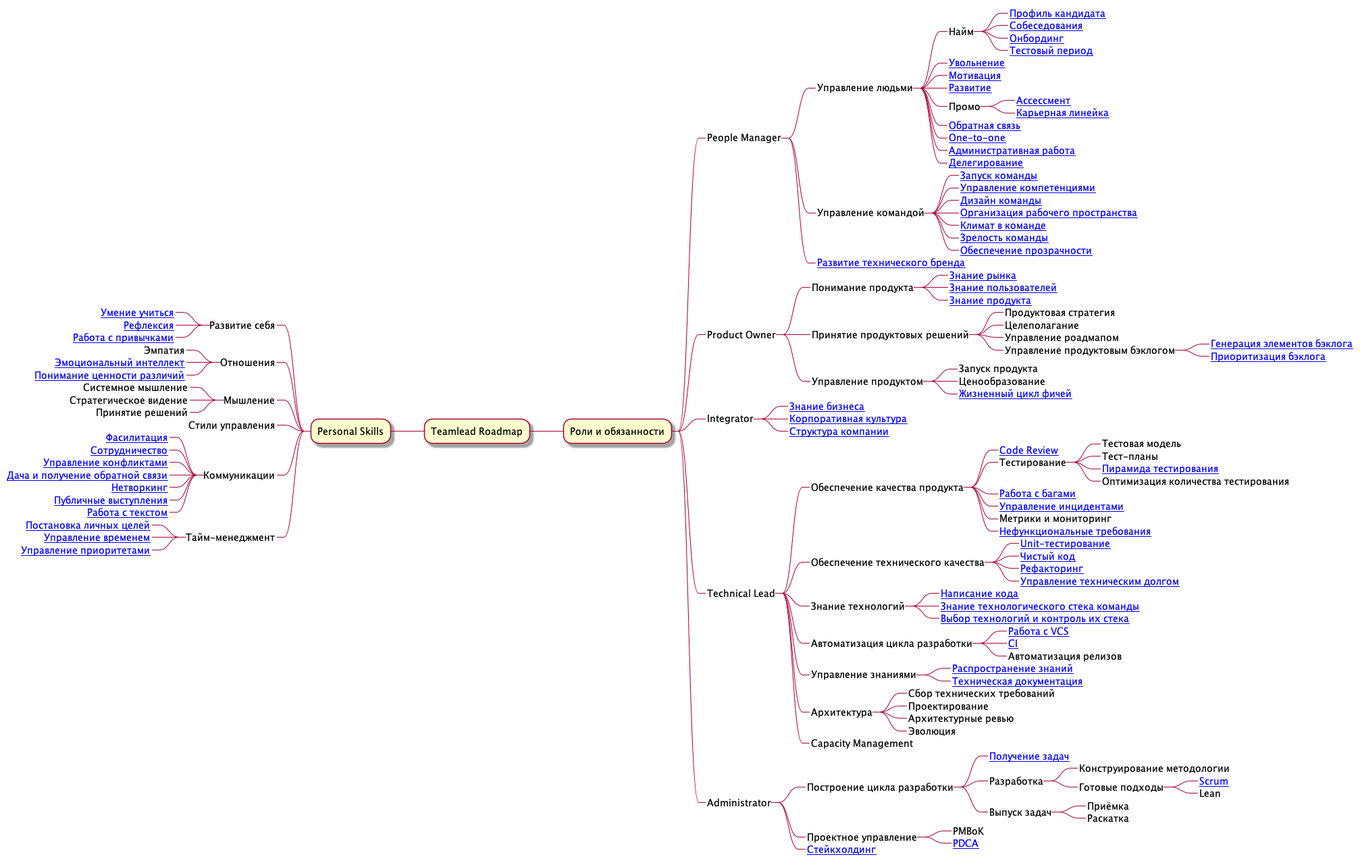
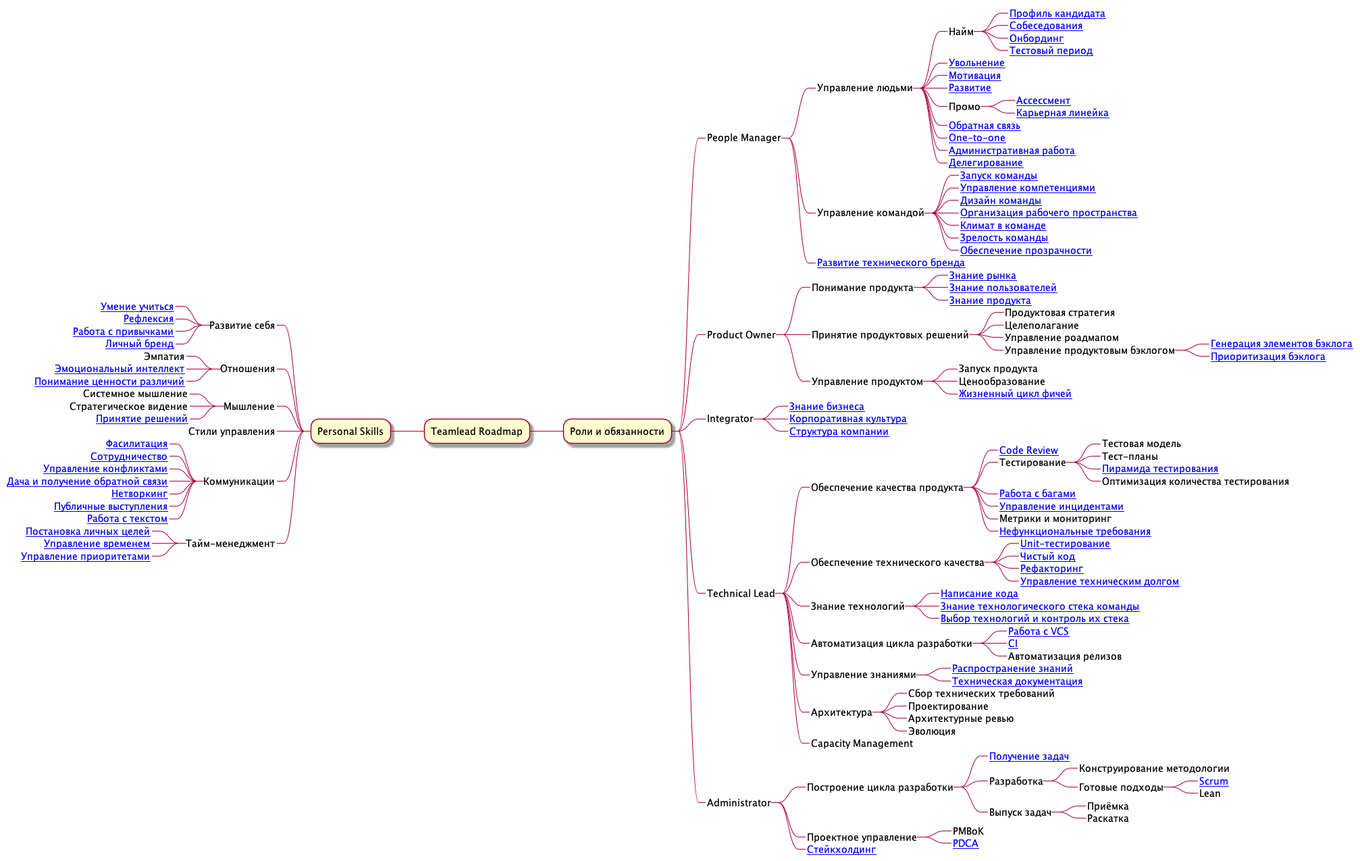
Updated knowledge base

Changed region(s): [[0.0, 0.3365, 0.2155, 0.6729]]

diff --git a/roadmap.mm b/roadmap.mm
@@ -1,1 +1,1 @@
-<map version="1.0.1"><node STYLE="bubble" TEXT="Teamlead Roadmap"><node POSITION="left" STYLE="fork" TEXT="Развитие себя"><node LINK="https://github.com/tlbootcamp/tlroadmap/blob/master/skills/self-improvement/learning.md" STYLE="fork" TEXT="Умение учиться" /><node LINK="https://github.com/tlbootcamp/tlroadmap/blob/master/skills/self-improvement/reflection.md" STYLE="fork" TEXT="Рефлексия" /><node LINK="https://github.com/tlbootcamp/tlroadmap/blob/master/skills/self-improvement/habits.md" STYLE="fork" TEXT="Работа с привычками" /></node><node POSITION="left" STYLE="fork" TEXT="Отношения"><node STYLE="fork" TEXT="Эмпатия" /><node LINK="https://github.com/tlbootcamp/tlroadmap/blob/master/skills/self-improvement/emotional-intelligence.md" STYLE="fork" TEXT="Эмоциональный интеллект" /><node LINK="https://github.com/tlbootcamp/tlroadmap/blob/master/skills/self-improvement/diversity.md" STYLE="fork" TEXT="Понимание ценности различий" /></node><node POSITION="left" STYLE="fork" TEXT="Мышление"><node STYLE="fork" TEXT="Системное мышление" /><node STYLE="fork" TEXT="Стратегическое видение" /><node STYLE="fork" TEXT="Принятие решений" /></node><node POSITION="left" STYLE="fork" TEXT="Стили управления" /><node POSITION="left" STYLE="fork" TEXT="Коммуникации"><node LINK="https://github.com/tlbootcamp/tlroadmap/blob/master/skills/self-improvement/facilitation.md" STYLE="fork" TEXT="Фасилитация" /><node LINK="https://github.com/tlbootcamp/tlroadmap/blob/master/skills/self-improvement/cooperation.md" STYLE="fork" TEXT="Сотрудничество" /><node LINK="https://github.com/tlbootcamp/tlroadmap/blob/master/skills/self-improvement/conflicts.md" STYLE="fork" TEXT="Управление конфликтами" /><node LINK="https://github.com/tlbootcamp/tlroadmap/blob/master/skills/self-improvement/feedback.md" STYLE="fork" TEXT="Дача и получение обратной связи" /><node LINK="https://github.com/tlbootcamp/tlroadmap/blob/master/skills/self-improvement/networking.md" STYLE="fork" TEXT="Нетворкинг" /><node LINK="https://github.com/tlbootcamp/tlroadmap/blob/master/skills/self-improvement/public-speaking.md" STYLE="fork" TEXT="Публичные выступления" /><node LINK="https://github.com/tlbootcamp/tlroadmap/blob/master/skills/self-improvement/text.md" STYLE="fork" TEXT="Работа с текстом" /></node><node POSITION="left" STYLE="fork" TEXT="Тайм-менеджмент"><node LINK="https://github.com/tlbootcamp/tlroadmap/blob/master/skills/self-improvement/goal-setting.md" STYLE="fork" TEXT="Постановка личных целей" /><node LINK="https://github.com/tlbootcamp/tlroadmap/blob/master/skills/self-improvement/time-management.md" STYLE="fork" TEXT="Управление временем" /><node LINK="https://github.com/tlbootcamp/tlroadmap/blob/master/skills/self-improvement/prioritization.md" STYLE="fork" TEXT="Управление приоритетами" /></node><node POSITION="right" STYLE="fork" TEXT="People Manager"><node STYLE="fork" TEXT="Управление людьми"><node STYLE="fork" TEXT="Найм"><node LINK="https://github.com/tlbootcamp/tlroadmap/blob/master/skills/resource-manager/profile.md" STYLE="fork" TEXT="Профиль кандидата" /><node LINK="https://github.com/tlbootcamp/tlroadmap/blob/master/skills/resource-manager/interview.md" STYLE="fork" TEXT="Собеседования" /><node LINK="https://github.com/tlbootcamp/tlroadmap/blob/master/skills/resource-manager/onboarding.md" STYLE="fork" TEXT="Онбординг" /><node LINK="https://github.com/tlbootcamp/tlroadmap/blob/master/skills/resource-manager/test-period.md" STYLE="fork" TEXT="Тестовый период" /></node><node LINK="https://github.com/tlbootcamp/tlroadmap/blob/master/skills/resource-manager/firing.md" STYLE="fork" TEXT="Увольнение" /><node LINK="https://github.com/tlbootcamp/tlroadmap/blob/master/skills/resource-manager/motivation.md" STYLE="fork" TEXT="Мотивация" /><node LINK="https://github.com/tlbootcamp/tlroadmap/blob/master/skills/resource-manager/development.md" STYLE="fork" TEXT="Развитие" /><node STYLE="fork" TEXT="Промо"><node LINK="https://github.com/tlbootcamp/tlroadmap/blob/master/skills/resource-manager/assessment.md" STYLE="fork" TEXT="Ассессмент" /><node LINK="https://github.com/tlbootcamp/tlroadmap/blob/master/skills/resource-manager/career.md" STYLE="fork" TEXT="Карьерная линейка" /></node><node LINK="https://github.com/tlbootcamp/tlroadmap/blob/master/skills/resource-manager/feedback.md" STYLE="fork" TEXT="Обратная связь" /><node LINK="https://github.com/tlbootcamp/tlroadmap/blob/master/skills/resource-manager/one-to-one.md" STYLE="fork" TEXT="One-to-one" /><node LINK="https://github.com/tlbootcamp/tlroadmap/blob/master/skills/resource-manager/admin.md" STYLE="fork" TEXT="Административная работа" /><node LINK="https://github.com/tlbootcamp/tlroadmap/blob/master/skills/resource-manager/delegation.md" STYLE="fork" TEXT="Делегирование" /></node><node STYLE="fork" TEXT="Управление командой"><node LINK="https://github.com/tlbootcamp/tlroadmap/blob/master/skills/resource-manager/team-launch.md" STYLE="fork" TEXT="Запуск команды" /><node LINK="https://github.com/tlbootcamp/tlroadmap/blob/master/skills/resource-manager/competency-management.md" STYLE="fork" TEXT="Управление компетенциями" /><node LINK="https://github.com/tlbootcamp/tlroadmap/blob/master/skills/resource-manager/team-design.md" STYLE="fork" TEXT="Дизайн команды" /><node LINK="https://github.com/tlbootcamp/tlroadmap/blob/master/skills/resource-manager/workspace.md" STYLE="fork" TEXT="Организация рабочего пространства" /><node LINK="https://github.com/tlbootcamp/tlroadmap/blob/master/skills/resource-manager/team-climate.md" STYLE="fork" TEXT="Климат в команде" /><node LINK="https://github.com/tlbootcamp/tlroadmap/blob/master/skills/resource-manager/team-maturity.md" STYLE="fork" TEXT="Зрелость команды" /><node LINK="https://github.com/tlbootcamp/tlroadmap/blob/master/skills/resource-manager/transparency.md" STYLE="fork" TEXT="Обеспечение прозрачности" /></node><node LINK="https://github.com/tlbootcamp/tlroadmap/blob/master/skills/resource-manager/techpr.md" STYLE="fork" TEXT="Развитие технического бренда" /></node><node POSITION="right" STYLE="fork" TEXT="Product Owner"><node STYLE="fork" TEXT="Понимание продукта"><node LINK="https://github.com/tlbootcamp/tlroadmap/blob/master/skills/product-owner/market-knowledge.md" STYLE="fork" TEXT="Знание рынка" /><node LINK="https://github.com/tlbootcamp/tlroadmap/blob/master/skills/product-owner/user-knowledge.md" STYLE="fork" TEXT="Знание пользователей" /><node LINK="https://github.com/tlbootcamp/tlroadmap/blob/master/skills/product-owner/product-knowledge.md" STYLE="fork" TEXT="Знание продукта" /></node><node STYLE="fork" TEXT="Принятие продуктовых решений"><node STYLE="fork" TEXT="Продуктовая стратегия" /><node STYLE="fork" TEXT="Целеполагание" /><node STYLE="fork" TEXT="Управление роадмапом" /><node STYLE="fork" TEXT="Управление продуктовым бэклогом"><node LINK="https://github.com/tlbootcamp/tlroadmap/blob/master/skills/product-owner/backlog-generation.md" STYLE="fork" TEXT="Генерация элементов бэклога" /><node LINK="https://github.com/tlbootcamp/tlroadmap/blob/master/skills/product-owner/backlog-prioritization.md" STYLE="fork" TEXT="Приоритизация бэклога" /></node></node><node STYLE="fork" TEXT="Управление продуктом"><node STYLE="fork" TEXT="Запуск продукта" /><node STYLE="fork" TEXT="Ценообразование" /><node LINK="https://github.com/tlbootcamp/tlroadmap/blob/master/skills/product-owner/feature-lifecycle.md" STYLE="fork" TEXT="Жизненный цикл фичей" /></node></node><node POSITION="right" STYLE="fork" TEXT="Integrator"><node LINK="https://github.com/tlbootcamp/tlroadmap/blob/master/skills/integrator/business-knowledge.md" STYLE="fork" TEXT="Знание бизнеса" /><node LINK="https://github.com/tlbootcamp/tlroadmap/blob/master/skills/integrator/corporate-culture.md" STYLE="fork" TEXT="Корпоративная культура" /><node LINK="https://github.com/tlbootcamp/tlroadmap/blob/master/skills/integrator/company-structure.md" STYLE="fork" TEXT="Структура компании" /></node><node POSITION="right" STYLE="fork" TEXT="Technical Lead"><node STYLE="fork" TEXT="Обеспечение качества продукта"><node LINK="https://github.com/tlbootcamp/tlroadmap/blob/master/skills/technical-lead/code-review.md" STYLE="fork" TEXT="Code Review" /><node STYLE="fork" TEXT="Тестирование"><node STYLE="fork" TEXT="Тестовая модель" /><node STYLE="fork" TEXT="Тест-планы" /><node LINK="https://github.com/tlbootcamp/tlroadmap/blob/master/skills/technical-lead/test-pyramid.md" STYLE="fork" TEXT="Пирамида тестирования" /><node STYLE="fork" TEXT="Оптимизация количества тестирования" /></node><node LINK="https://github.com/tlbootcamp/tlroadmap/blob/master/skills/technical-lead/bugs.md" STYLE="fork" TEXT="Работа с багами" /><node LINK="https://github.com/tlbootcamp/tlroadmap/blob/master/skills/technical-lead/incident-management.md" STYLE="fork" TEXT="Управление инцидентами" /><node STYLE="fork" TEXT="Метрики и мониторинг" /><node LINK="https://github.com/tlbootcamp/tlroadmap/blob/master/skills/technical-lead/nfr.md" STYLE="fork" TEXT="Нефункциональные требования" /></node><node STYLE="fork" TEXT="Обеспечение технического качества"><node LINK="https://github.com/tlbootcamp/tlroadmap/blob/master/skills/technical-lead/unit-testing.md" STYLE="fork" TEXT="Unit-тестирование" /><node LINK="https://github.com/tlbootcamp/tlroadmap/blob/master/skills/technical-lead/clean-code.md" STYLE="fork" TEXT="Чистый код" /><node LINK="https://github.com/tlbootcamp/tlroadmap/blob/master/skills/technical-lead/refactoring.md" STYLE="fork" TEXT="Рефакторинг" /><node LINK="https://github.com/tlbootcamp/tlroadmap/blob/master/skills/technical-lead/technical-debt.md" STYLE="fork" TEXT="Управление техническим долгом" /></node><node STYLE="fork" TEXT="Знание технологий"><node LINK="https://github.com/tlbootcamp/tlroadmap/blob/master/skills/technical-lead/code.md" STYLE="fork" TEXT="Написание кода" /><node LINK="https://github.com/tlbootcamp/tlroadmap/blob/master/skills/technical-lead/stack-knowledge.md" STYLE="fork" TEXT="Знание технологического стека команды" /><node LINK="https://github.com/tlbootcamp/tlroadmap/blob/master/skills/technical-lead/stack-choice.md" STYLE="fork" TEXT="Выбор технологий и контроль их стека" /></node><node STYLE="fork" TEXT="Автоматизация цикла разработки"><node LINK="https://github.com/tlbootcamp/tlroadmap/blob/master/skills/technical-lead/vcs.md" STYLE="fork" TEXT="Работа с VCS" /><node LINK="https://github.com/tlbootcamp/tlroadmap/blob/master/skills/technical-lead/ci.md" STYLE="fork" TEXT="CI" /><node STYLE="fork" TEXT="Автоматизация релизов" /></node><node STYLE="fork" TEXT="Управление знаниями"><node LINK="https://github.com/tlbootcamp/tlroadmap/blob/master/skills/technical-lead/knowledge-management.md" STYLE="fork" TEXT="Распространение знаний" /><node LINK="https://github.com/tlbootcamp/tlroadmap/blob/master/skills/technical-lead/documentation.md" STYLE="fork" TEXT="Техническая документация" /></node><node STYLE="fork" TEXT="Архитектура"><node STYLE="fork" TEXT="Сбор технических требований" /><node STYLE="fork" TEXT="Проектирование" /><node STYLE="fork" TEXT="Архитектурные ревью" /><node STYLE="fork" TEXT="Эволюция" /></node><node STYLE="fork" TEXT="Capacity Management" /></node><node POSITION="right" STYLE="fork" TEXT="Administrator"><node STYLE="fork" TEXT="Построение цикла разработки"><node LINK="https://github.com/tlbootcamp/tlroadmap/blob/master/skills/administrator/task-inbox.md" STYLE="fork" TEXT="Получение задач" /><node STYLE="fork" TEXT="Разработка"><node STYLE="fork" TEXT="Конструирование методологии" /><node STYLE="fork" TEXT="Готовые подходы"><node LINK="https://github.com/tlbootcamp/tlroadmap/blob/master/skills/administrator/scrum.md" STYLE="fork" TEXT="Scrum" /><node STYLE="fork" TEXT="Lean" /></node></node><node STYLE="fork" TEXT="Выпуск задач"><node STYLE="fork" TEXT="Приёмка" /><node STYLE="fork" TEXT="Раскатка" /></node></node><node STYLE="fork" TEXT="Проектное управление"><node STYLE="fork" TEXT="PMBoK" /><node LINK="https://github.com/tlbootcamp/tlroadmap/blob/master/skills/administrator/pdca.md" STYLE="fork" TEXT="PDCA" /></node><node LINK="https://github.com/tlbootcamp/tlroadmap/blob/master/skills/administrator/stakeholding.md" STYLE="fork" TEXT="Стейкхолдинг" /></node></node></map>
+<map version="1.0.1"><node STYLE="bubble" TEXT="Teamlead Roadmap"><node POSITION="left" STYLE="fork" TEXT="Развитие себя"><node LINK="https://github.com/tlbootcamp/tlroadmap/blob/master/skills/self-improvement/learning.md" STYLE="fork" TEXT="Умение учиться" /><node LINK="https://github.com/tlbootcamp/tlroadmap/blob/master/skills/self-improvement/reflection.md" STYLE="fork" TEXT="Рефлексия" /><node LINK="https://github.com/tlbootcamp/tlroadmap/blob/master/skills/self-improvement/habits.md" STYLE="fork" TEXT="Работа с привычками" /><node LINK="https://github.com/tlbootcamp/tlroadmap/blob/master/skills/self-improvement/personal-brand.md" STYLE="fork" TEXT="Личный бренд" /></node><node POSITION="left" STYLE="fork" TEXT="Отношения"><node STYLE="fork" TEXT="Эмпатия" /><node LINK="https://github.com/tlbootcamp/tlroadmap/blob/master/skills/self-improvement/emotional-intelligence.md" STYLE="fork" TEXT="Эмоциональный интеллект" /><node LINK="https://github.com/tlbootcamp/tlroadmap/blob/master/skills/self-improvement/diversity.md" STYLE="fork" TEXT="Понимание ценности различий" /></node><node POSITION="left" STYLE="fork" TEXT="Мышление"><node STYLE="fork" TEXT="Системное мышление" /><node STYLE="fork" TEXT="Стратегическое видение" /><node LINK="https://github.com/tlbootcamp/tlroadmap/blob/master/skills/self-improvement/decision-making.md" STYLE="fork" TEXT="Принятие решений" /></node><node POSITION="left" STYLE="fork" TEXT="Стили управления" /><node POSITION="left" STYLE="fork" TEXT="Коммуникации"><node LINK="https://github.com/tlbootcamp/tlroadmap/blob/master/skills/self-improvement/facilitation.md" STYLE="fork" TEXT="Фасилитация" /><node LINK="https://github.com/tlbootcamp/tlroadmap/blob/master/skills/self-improvement/cooperation.md" STYLE="fork" TEXT="Сотрудничество" /><node LINK="https://github.com/tlbootcamp/tlroadmap/blob/master/skills/self-improvement/conflicts.md" STYLE="fork" TEXT="Управление конфликтами" /><node LINK="https://github.com/tlbootcamp/tlroadmap/blob/master/skills/self-improvement/feedback.md" STYLE="fork" TEXT="Дача и получение обратной связи" /><node LINK="https://github.com/tlbootcamp/tlroadmap/blob/master/skills/self-improvement/networking.md" STYLE="fork" TEXT="Нетворкинг" /><node LINK="https://github.com/tlbootcamp/tlroadmap/blob/master/skills/self-improvement/public-speaking.md" STYLE="fork" TEXT="Публичные выступления" /><node LINK="https://github.com/tlbootcamp/tlroadmap/blob/master/skills/self-improvement/text.md" STYLE="fork" TEXT="Работа с текстом" /></node><node POSITION="left" STYLE="fork" TEXT="Тайм-менеджмент"><node LINK="https://github.com/tlbootcamp/tlroadmap/blob/master/skills/self-improvement/goal-setting.md" STYLE="fork" TEXT="Постановка личных целей" /><node LINK="https://github.com/tlbootcamp/tlroadmap/blob/master/skills/self-improvement/time-management.md" STYLE="fork" TEXT="Управление временем" /><node LINK="https://github.com/tlbootcamp/tlroadmap/blob/master/skills/self-improvement/prioritization.md" STYLE="fork" TEXT="Управление приоритетами" /></node><node POSITION="right" STYLE="fork" TEXT="People Manager"><node STYLE="fork" TEXT="Управление людьми"><node STYLE="fork" TEXT="Найм"><node LINK="https://github.com/tlbootcamp/tlroadmap/blob/master/skills/resource-manager/profile.md" STYLE="fork" TEXT="Профиль кандидата" /><node LINK="https://github.com/tlbootcamp/tlroadmap/blob/master/skills/resource-manager/interview.md" STYLE="fork" TEXT="Собеседования" /><node LINK="https://github.com/tlbootcamp/tlroadmap/blob/master/skills/resource-manager/onboarding.md" STYLE="fork" TEXT="Онбординг" /><node LINK="https://github.com/tlbootcamp/tlroadmap/blob/master/skills/resource-manager/test-period.md" STYLE="fork" TEXT="Тестовый период" /></node><node LINK="https://github.com/tlbootcamp/tlroadmap/blob/master/skills/resource-manager/firing.md" STYLE="fork" TEXT="Увольнение" /><node LINK="https://github.com/tlbootcamp/tlroadmap/blob/master/skills/resource-manager/motivation.md" STYLE="fork" TEXT="Мотивация" /><node LINK="https://github.com/tlbootcamp/tlroadmap/blob/master/skills/resource-manager/development.md" STYLE="fork" TEXT="Развитие" /><node STYLE="fork" TEXT="Промо"><node LINK="https://github.com/tlbootcamp/tlroadmap/blob/master/skills/resource-manager/assessment.md" STYLE="fork" TEXT="Ассессмент" /><node LINK="https://github.com/tlbootcamp/tlroadmap/blob/master/skills/resource-manager/career.md" STYLE="fork" TEXT="Карьерная линейка" /></node><node LINK="https://github.com/tlbootcamp/tlroadmap/blob/master/skills/resource-manager/feedback.md" STYLE="fork" TEXT="Обратная связь" /><node LINK="https://github.com/tlbootcamp/tlroadmap/blob/master/skills/resource-manager/one-to-one.md" STYLE="fork" TEXT="One-to-one" /><node LINK="https://github.com/tlbootcamp/tlroadmap/blob/master/skills/resource-manager/admin.md" STYLE="fork" TEXT="Административная работа" /><node LINK="https://github.com/tlbootcamp/tlroadmap/blob/master/skills/resource-manager/delegation.md" STYLE="fork" TEXT="Делегирование" /></node><node STYLE="fork" TEXT="Управление командой"><node LINK="https://github.com/tlbootcamp/tlroadmap/blob/master/skills/resource-manager/team-launch.md" STYLE="fork" TEXT="Запуск команды" /><node LINK="https://github.com/tlbootcamp/tlroadmap/blob/master/skills/resource-manager/competency-management.md" STYLE="fork" TEXT="Управление компетенциями" /><node LINK="https://github.com/tlbootcamp/tlroadmap/blob/master/skills/resource-manager/team-design.md" STYLE="fork" TEXT="Дизайн команды" /><node LINK="https://github.com/tlbootcamp/tlroadmap/blob/master/skills/resource-manager/workspace.md" STYLE="fork" TEXT="Организация рабочего пространства" /><node LINK="https://github.com/tlbootcamp/tlroadmap/blob/master/skills/resource-manager/team-climate.md" STYLE="fork" TEXT="Климат в команде" /><node LINK="https://github.com/tlbootcamp/tlroadmap/blob/master/skills/resource-manager/team-maturity.md" STYLE="fork" TEXT="Зрелость команды" /><node LINK="https://github.com/tlbootcamp/tlroadmap/blob/master/skills/resource-manager/transparency.md" STYLE="fork" TEXT="Обеспечение прозрачности" /></node><node LINK="https://github.com/tlbootcamp/tlroadmap/blob/master/skills/resource-manager/techpr.md" STYLE="fork" TEXT="Развитие технического бренда" /></node><node POSITION="right" STYLE="fork" TEXT="Product Owner"><node STYLE="fork" TEXT="Понимание продукта"><node LINK="https://github.com/tlbootcamp/tlroadmap/blob/master/skills/product-owner/market-knowledge.md" STYLE="fork" TEXT="Знание рынка" /><node LINK="https://github.com/tlbootcamp/tlroadmap/blob/master/skills/product-owner/user-knowledge.md" STYLE="fork" TEXT="Знание пользователей" /><node LINK="https://github.com/tlbootcamp/tlroadmap/blob/master/skills/product-owner/product-knowledge.md" STYLE="fork" TEXT="Знание продукта" /></node><node STYLE="fork" TEXT="Принятие продуктовых решений"><node STYLE="fork" TEXT="Продуктовая стратегия" /><node STYLE="fork" TEXT="Целеполагание" /><node STYLE="fork" TEXT="Управление роадмапом" /><node STYLE="fork" TEXT="Управление продуктовым бэклогом"><node LINK="https://github.com/tlbootcamp/tlroadmap/blob/master/skills/product-owner/backlog-generation.md" STYLE="fork" TEXT="Генерация элементов бэклога" /><node LINK="https://github.com/tlbootcamp/tlroadmap/blob/master/skills/product-owner/backlog-prioritization.md" STYLE="fork" TEXT="Приоритизация бэклога" /></node></node><node STYLE="fork" TEXT="Управление продуктом"><node STYLE="fork" TEXT="Запуск продукта" /><node STYLE="fork" TEXT="Ценообразование" /><node LINK="https://github.com/tlbootcamp/tlroadmap/blob/master/skills/product-owner/feature-lifecycle.md" STYLE="fork" TEXT="Жизненный цикл фичей" /></node></node><node POSITION="right" STYLE="fork" TEXT="Integrator"><node LINK="https://github.com/tlbootcamp/tlroadmap/blob/master/skills/integrator/business-knowledge.md" STYLE="fork" TEXT="Знание бизнеса" /><node LINK="https://github.com/tlbootcamp/tlroadmap/blob/master/skills/integrator/corporate-culture.md" STYLE="fork" TEXT="Корпоративная культура" /><node LINK="https://github.com/tlbootcamp/tlroadmap/blob/master/skills/integrator/company-structure.md" STYLE="fork" TEXT="Структура компании" /></node><node POSITION="right" STYLE="fork" TEXT="Technical Lead"><node STYLE="fork" TEXT="Обеспечение качества продукта"><node LINK="https://github.com/tlbootcamp/tlroadmap/blob/master/skills/technical-lead/code-review.md" STYLE="fork" TEXT="Code Review" /><node STYLE="fork" TEXT="Тестирование"><node STYLE="fork" TEXT="Тестовая модель" /><node STYLE="fork" TEXT="Тест-планы" /><node LINK="https://github.com/tlbootcamp/tlroadmap/blob/master/skills/technical-lead/test-pyramid.md" STYLE="fork" TEXT="Пирамида тестирования" /><node STYLE="fork" TEXT="Оптимизация количества тестирования" /></node><node LINK="https://github.com/tlbootcamp/tlroadmap/blob/master/skills/technical-lead/bugs.md" STYLE="fork" TEXT="Работа с багами" /><node LINK="https://github.com/tlbootcamp/tlroadmap/blob/master/skills/technical-lead/incident-management.md" STYLE="fork" TEXT="Управление инцидентами" /><node STYLE="fork" TEXT="Метрики и мониторинг" /><node LINK="https://github.com/tlbootcamp/tlroadmap/blob/master/skills/technical-lead/nfr.md" STYLE="fork" TEXT="Нефункциональные требования" /></node><node STYLE="fork" TEXT="Обеспечение технического качества"><node LINK="https://github.com/tlbootcamp/tlroadmap/blob/master/skills/technical-lead/unit-testing.md" STYLE="fork" TEXT="Unit-тестирование" /><node LINK="https://github.com/tlbootcamp/tlroadmap/blob/master/skills/technical-lead/clean-code.md" STYLE="fork" TEXT="Чистый код" /><node LINK="https://github.com/tlbootcamp/tlroadmap/blob/master/skills/technical-lead/refactoring.md" STYLE="fork" TEXT="Рефакторинг" /><node LINK="https://github.com/tlbootcamp/tlroadmap/blob/master/skills/technical-lead/technical-debt.md" STYLE="fork" TEXT="Управление техническим долгом" /></node><node STYLE="fork" TEXT="Знание технологий"><node LINK="https://github.com/tlbootcamp/tlroadmap/blob/master/skills/technical-lead/code.md" STYLE="fork" TEXT="Написание кода" /><node LINK="https://github.com/tlbootcamp/tlroadmap/blob/master/skills/technical-lead/stack-knowledge.md" STYLE="fork" TEXT="Знание технологического стека команды" /><node LINK="https://github.com/tlbootcamp/tlroadmap/blob/master/skills/technical-lead/stack-choice.md" STYLE="fork" TEXT="Выбор технологий и контроль их стека" /></node><node STYLE="fork" TEXT="Автоматизация цикла разработки"><node LINK="https://github.com/tlbootcamp/tlroadmap/blob/master/skills/technical-lead/vcs.md" STYLE="fork" TEXT="Работа с VCS" /><node LINK="https://github.com/tlbootcamp/tlroadmap/blob/master/skills/technical-lead/ci.md" STYLE="fork" TEXT="CI" /><node STYLE="fork" TEXT="Автоматизация релизов" /></node><node STYLE="fork" TEXT="Управление знаниями"><node LINK="https://github.com/tlbootcamp/tlroadmap/blob/master/skills/technical-lead/knowledge-management.md" STYLE="fork" TEXT="Распространение знаний" /><node LINK="https://github.com/tlbootcamp/tlroadmap/blob/master/skills/technical-lead/documentation.md" STYLE="fork" TEXT="Техническая документация" /></node><node STYLE="fork" TEXT="Архитектура"><node STYLE="fork" TEXT="Сбор технических требований" /><node STYLE="fork" TEXT="Проектирование" /><node STYLE="fork" TEXT="Архитектурные ревью" /><node STYLE="fork" TEXT="Эволюция" /></node><node STYLE="fork" TEXT="Capacity Management" /></node><node POSITION="right" STYLE="fork" TEXT="Administrator"><node STYLE="fork" TEXT="Построение цикла разработки"><node LINK="https://github.com/tlbootcamp/tlroadmap/blob/master/skills/administrator/task-inbox.md" STYLE="fork" TEXT="Получение задач" /><node STYLE="fork" TEXT="Разработка"><node STYLE="fork" TEXT="Конструирование методологии" /><node STYLE="fork" TEXT="Готовые подходы"><node LINK="https://github.com/tlbootcamp/tlroadmap/blob/master/skills/administrator/scrum.md" STYLE="fork" TEXT="Scrum" /><node STYLE="fork" TEXT="Lean" /></node></node><node STYLE="fork" TEXT="Выпуск задач"><node STYLE="fork" TEXT="Приёмка" /><node STYLE="fork" TEXT="Раскатка" /></node></node><node STYLE="fork" TEXT="Проектное управление"><node STYLE="fork" TEXT="PMBoK" /><node LINK="https://github.com/tlbootcamp/tlroadmap/blob/master/skills/administrator/pdca.md" STYLE="fork" TEXT="PDCA" /></node><node LINK="https://github.com/tlbootcamp/tlroadmap/blob/master/skills/administrator/stakeholding.md" STYLE="fork" TEXT="Стейкхолдинг" /></node></node></map>

diff --git a/README.md b/README.md
@@ -170,6 +170,7 @@
 - [Умение учиться](https://github.com/tlbootcamp/tlroadmap/blob/master/skills/self-improvement/learning.md)
 - [Рефлексия](https://github.com/tlbootcamp/tlroadmap/blob/master/skills/self-improvement/reflection.md)
 - [Работа с привычками](https://github.com/tlbootcamp/tlroadmap/blob/master/skills/self-improvement/habits.md)
+- [Личный бренд](https://github.com/tlbootcamp/tlroadmap/blob/master/skills/self-improvement/personal-brand.md)
 ### Отношения
 - Эмпатия
 - [Эмоциональный интеллект](https://github.com/tlbootcamp/tlroadmap/blob/master/skills/self-improvement/emotional-intelligence.md)
@@ -177,7 +178,7 @@
 ### Мышление
 - Системное мышление
 - Стратегическое видение
-- Принятие решений
+- [Принятие решений](https://github.com/tlbootcamp/tlroadmap/blob/master/skills/self-improvement/decision-making.md)
 ### Стили управления
 ### Коммуникации
 - [Фасилитация](https://github.com/tlbootcamp/tlroadmap/blob/master/skills/self-improvement/facilitation.md)
